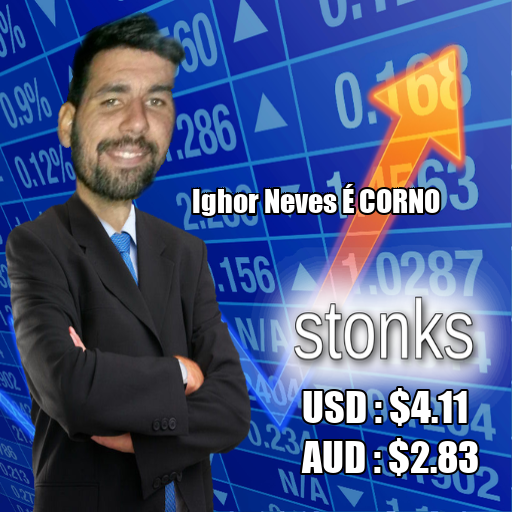
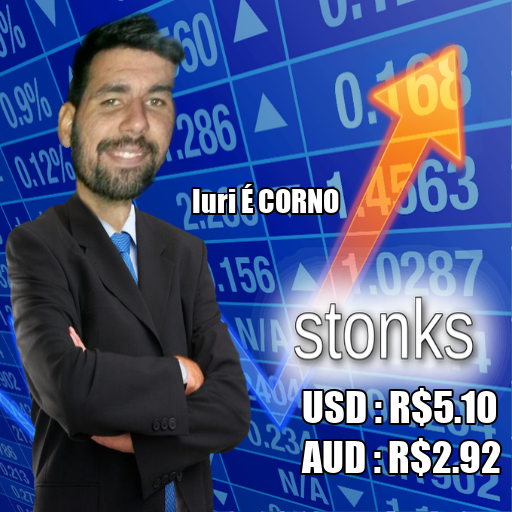
coronavirus added

Changed region(s): [[0.75, 0.75, 1.0, 0.9375], [0.375, 0.3438, 0.875, 0.4375]]

diff --git a/botlemos/src/stonks.py b/botlemos/src/stonks.py
@@ -29,6 +29,50 @@ def cotar(corno):
 
     image.save('cotacao.png')
 
+def coronar(corno):
+    coronabrurl = 'https://coronavirus-19-api.herokuapp.com/countries/brazil'
+    cbr = requests.get(coronabrurl)
+    data = cbr.json()
+    casosbr = float(data['cases'])
+    acasosbr = float(data['active'])
+    mortosbr = float(data['deaths'])
+    mortosbr = float(data['deaths'])
+
+    coronaauurl = 'https://coronavirus-19-api.herokuapp.com/countries/australia'
+    cau = requests.get(coronaauurl)
+    data = cau.json()
+    casosau = float(data['cases'])
+    acasosau = float(data['active'])
+    mortosau = float(data['deaths'])
+
+    image = Image.open('coronafofoel.png')
+
+    font_type = ImageFont.truetype('impact.ttf', 30)
+    font_type2 = ImageFont.truetype('impact.ttf', 30)
+
+    draw = ImageDraw.Draw(image)
+
+    draw.text(xy=(15, 100), text='{} É CORNO'.format(corno), fill=(255, 255, 255),
+              font=font_type2, stroke_fill=2, stroke_width=2)
+              #BRAZIL
+    draw.text(xy=(280, 15), text='CASOS: {}'.format(round(casosbr)), fill=(255, 255, 255),
+              font=font_type, stroke_fill=2, stroke_width=2)
+    draw.text(xy=(280, 50), text='ATIVOS: {}'.format(round(acasosbr)), fill=(255, 255, 255),
+              font=font_type, stroke_fill=2, stroke_width=2)
+    draw.text(xy=(280, 85), text='MORTOS: {}'.format(round(mortosbr)), fill=(255, 255, 255),
+              font=font_type, stroke_fill=2, stroke_width=2)
+              #AUSTRALIA
+    draw.text(xy=(280, 260), text='CASOS: {}'.format(round(casosau)), fill=(255, 255, 255),
+              font=font_type, stroke_fill=2, stroke_width=2)
+    draw.text(xy=(280, 295), text='ATIVOS: {}'.format(round(acasosau)), fill=(255, 255, 255),
+              font=font_type, stroke_fill=2, stroke_width=2)
+    draw.text(xy=(280, 330), text='MORTOS: {}'.format(round(mortosau)), fill=(255, 255, 255),
+              font=font_type, stroke_fill=2, stroke_width=2)
+
+    draw.text(xy=(100, 470), text='FIDELIZA NO LIKE, FAVELA VENCEU', fill=(255, 255, 255),
+              font=font_type, stroke_fill=2, stroke_width=2)
+    image.save('coronafofoelfinal.png')
+
 
 def frasear():
 

diff --git a/botlemos/src/core.py b/botlemos/src/core.py
@@ -1,5 +1,5 @@
 from telegram.ext import CommandHandler, Filters, MessageHandler, Updater
-from stonks import cotar, frasear
+from stonks import cotar, frasear, coronar
 TELEGRAM_TOKEN = "935141102:AAE5ssMgzHoQ95yV7WvO304EKKcBSRtzMdQ"
 url = 'https://economia.awesomeapi.com.br/all/USD-BRL'
 
@@ -19,6 +19,17 @@ def dolar(update, context):
     context.bot.send_photo(chat_id=chat_id, photo=open('cotacao.png', 'rb'))
 
 
+def corona(update, context):
+    chat_id = update.message.chat_id
+    corno = update.message.from_user.first_name
+    coronar(corno)
+    frase = frasear()
+    update.message.reply_text(
+        '{} - Rafael Lemos'.format(frase))
+    context.bot.send_photo(chat_id=chat_id, photo=open('coronafofoelfinal.png', 'rb'))
+    
+
+
 def main():
 
     updater = Updater(token=TELEGRAM_TOKEN, use_context=True)
@@ -27,8 +38,10 @@ def main():
 
     updater.dispatcher.add_handler(CommandHandler('hello', hello))
     updater.dispatcher.add_handler(CommandHandler('dolar', dolar))
+    updater.dispatcher.add_handler(CommandHandler('corona', corona))
 
     updater.start_polling()
+
 
     updater.idle()
 
